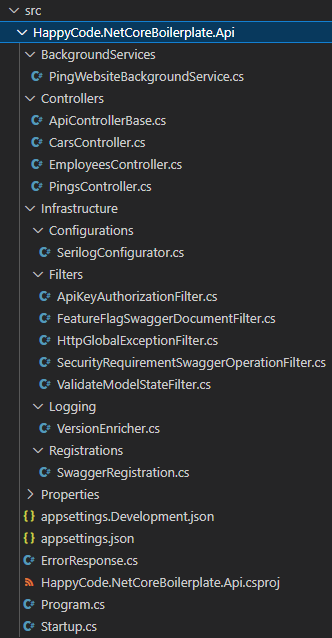
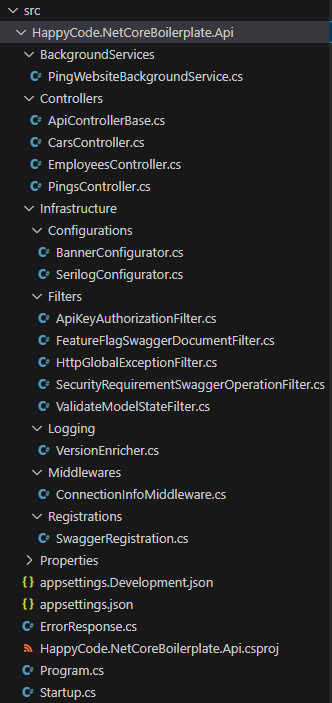
added new feature flag

Changed region(s): [[0.0, 0.0, 1.0, 1.0]]

diff --git a/src/HappyCode.NetCoreBoilerplate.Api/Startup.cs b/src/HappyCode.NetCoreBoilerplate.Api/Startup.cs
@@ -2,6 +2,7 @@ using System.Linq;
 using HappyCode.NetCoreBoilerplate.Api.BackgroundServices;
 using HappyCode.NetCoreBoilerplate.Api.Infrastructure.Configurations;
 using HappyCode.NetCoreBoilerplate.Api.Infrastructure.Filters;
+using HappyCode.NetCoreBoilerplate.Api.Infrastructure.Middlewares;
 using HappyCode.NetCoreBoilerplate.Api.Infrastructure.Registrations;
 using HappyCode.NetCoreBoilerplate.BooksModule;
 using HappyCode.NetCoreBoilerplate.Core;
@@ -79,6 +80,8 @@ namespace HappyCode.NetCoreBoilerplate.Api
             {
                 app.UseDeveloperExceptionPage();
             }
+
+            app.UseMiddlewareForFeature<ConnectionInfoMiddleware>(FeatureFlags.ConnectionInfo.ToString());
 
             app.UseRouting();
             app.UseEndpoints(endpoints =>

diff --git a/src/HappyCode.NetCoreBoilerplate.Api/Infrastructure/Middlewares/ConnectionInfoMiddleware.cs b/src/HappyCode.NetCoreBoilerplate.Api/Infrastructure/Middlewares/ConnectionInfoMiddleware.cs
@@ -1,0 +1,18 @@
+using Microsoft.AspNetCore.Http;
+using Microsoft.Extensions.Logging;
+
+namespace HappyCode.NetCoreBoilerplate.Api.Infrastructure.Middlewares
+{
+    public class ConnectionInfoMiddleware(RequestDelegate next, ILogger<ConnectionInfoMiddleware> logger)
+    {
+        private readonly RequestDelegate _next = next;
+        private readonly ILogger<ConnectionInfoMiddleware> _logger = logger;
+
+        public async Task InvokeAsync(HttpContext httpContext)
+        {
+            _logger.LogDebug("===> Connection: {Connection}", new { ConnectionId = httpContext.Connection.Id, LocalIP = httpContext.Connection.LocalIpAddress, RemoteIP = httpContext.Connection.RemoteIpAddress });
+
+            await _next.Invoke(httpContext);
+        }
+    }
+}

diff --git a/src/HappyCode.NetCoreBoilerplate.Core/FeatureFlags.cs b/src/HappyCode.NetCoreBoilerplate.Core/FeatureFlags.cs
@@ -5,5 +5,6 @@ namespace HappyCode.NetCoreBoilerplate.Core
         ApiKey,
         DockerCompose,
         Santa,
+        ConnectionInfo,
     }
 }

diff --git a/README.md b/README.md
@@ -174,21 +174,23 @@ Generally it is totally up to you! But in case you do not have any plan, You can
   * DbContext (with MsSQL)
   * Swagger and SwaggerUI (Swashbuckle)
   * HostedService and HttpClient
+  * Core components and [Books module](#books-module) registration
   * FeatureManagement
   * HealthChecks
     * MySQL
     * MsSQL
-* Filters
-  * Simple `ApiKey` Authorization filter - [ApiKeyAuthorizationFilter.cs](src/HappyCode.NetCoreBoilerplate.Api/Infrastructure/Filters/ApiKeyAuthorizationFilter.cs)
-  * Action filter to validate `ModelState` - [ValidateModelStateFilter.cs](src/HappyCode.NetCoreBoilerplate.Api/Infrastructure/Filters/ValidateModelStateFilter.cs)
-  * Global exception filter - [HttpGlobalExceptionFilter.cs](src/HappyCode.NetCoreBoilerplate.Api/Infrastructure/Filters/HttpGlobalExceptionFilter.cs)
-* Configurations
+* Infrastructure
   * `Serilog` configuration place - [SerilogConfigurator.cs](src/HappyCode.NetCoreBoilerplate.Api/Infrastructure/Configurations/SerilogConfigurator.cs)
   * `Swagger` registration place - [SwaggerRegistration.cs](src/HappyCode.NetCoreBoilerplate.Api/Infrastructure/Registrations/SwaggerRegistration.cs)
     * Feature flag documentation filter - [FeatureFlagSwaggerDocumentFilter.cs](src/HappyCode.NetCoreBoilerplate.Api/Infrastructure/Filters/FeatureFlagSwaggerDocumentFilter.cs)
     * Security requirement operation filter - [SecurityRequirementSwaggerOperationFilter.cs](src/HappyCode.NetCoreBoilerplate.Api/Infrastructure/Filters/SecurityRequirementSwaggerOperationFilter.cs)
-* Logging
-  * Custom enricher to have version properties in logs - [VersionEnricher.cs](src/HappyCode.NetCoreBoilerplate.Api/Infrastructure/Logging/VersionEnricher.cs)
+  * Filters
+    * Simple `ApiKey` Authorization filter - [ApiKeyAuthorizationFilter.cs](src/HappyCode.NetCoreBoilerplate.Api/Infrastructure/Filters/ApiKeyAuthorizationFilter.cs)
+    * Action filter to validate `ModelState` - [ValidateModelStateFilter.cs](src/HappyCode.NetCoreBoilerplate.Api/Infrastructure/Filters/ValidateModelStateFilter.cs)
+    * Global exception filter - [HttpGlobalExceptionFilter.cs](src/HappyCode.NetCoreBoilerplate.Api/Infrastructure/Filters/HttpGlobalExceptionFilter.cs)
+  * Logging
+    * Custom enricher to have version properties in logs - [VersionEnricher.cs](src/HappyCode.NetCoreBoilerplate.Api/Infrastructure/Logging/VersionEnricher.cs)
+  * Simple custom middleware that logs connection info - [ConnectionInfoMiddleware.cs](src/HappyCode.NetCoreBoilerplate.Api/Infrastructure/Middlewares/ConnectionInfoMiddleware.cs)
 * Simple exemplary API controllers - [EmployeesController.cs](src/HappyCode.NetCoreBoilerplate.Api/Controllers/EmployeesController.cs), [CarsController.cs](src/HappyCode.NetCoreBoilerplate.Api/Controllers/CarsController.cs), [PingsController.cs](src/HappyCode.NetCoreBoilerplate.Api/Controllers/PingsController.cs)
 * Example of BackgroundService - [PingWebsiteBackgroundService.cs](src/HappyCode.NetCoreBoilerplate.Api/BackgroundServices/PingWebsiteBackgroundService.cs)
 
